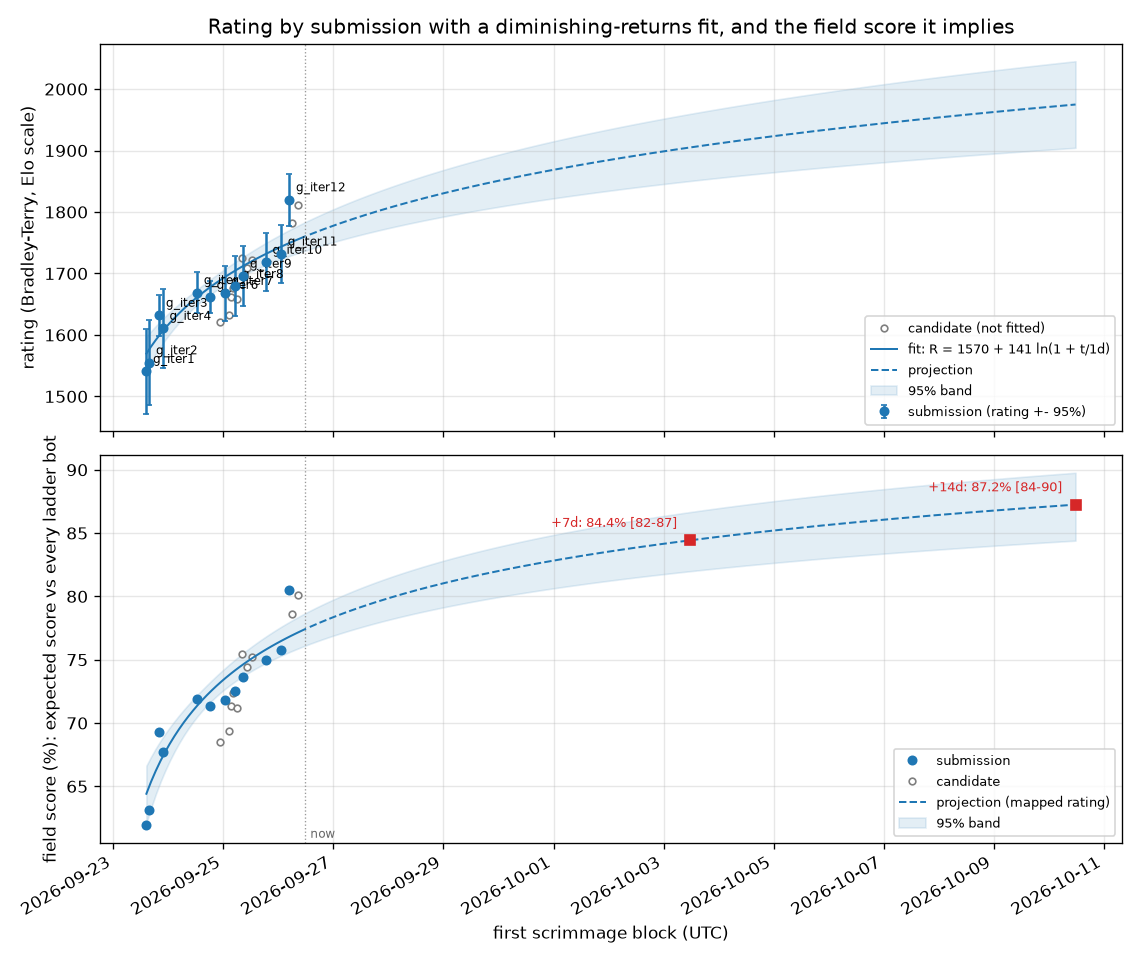
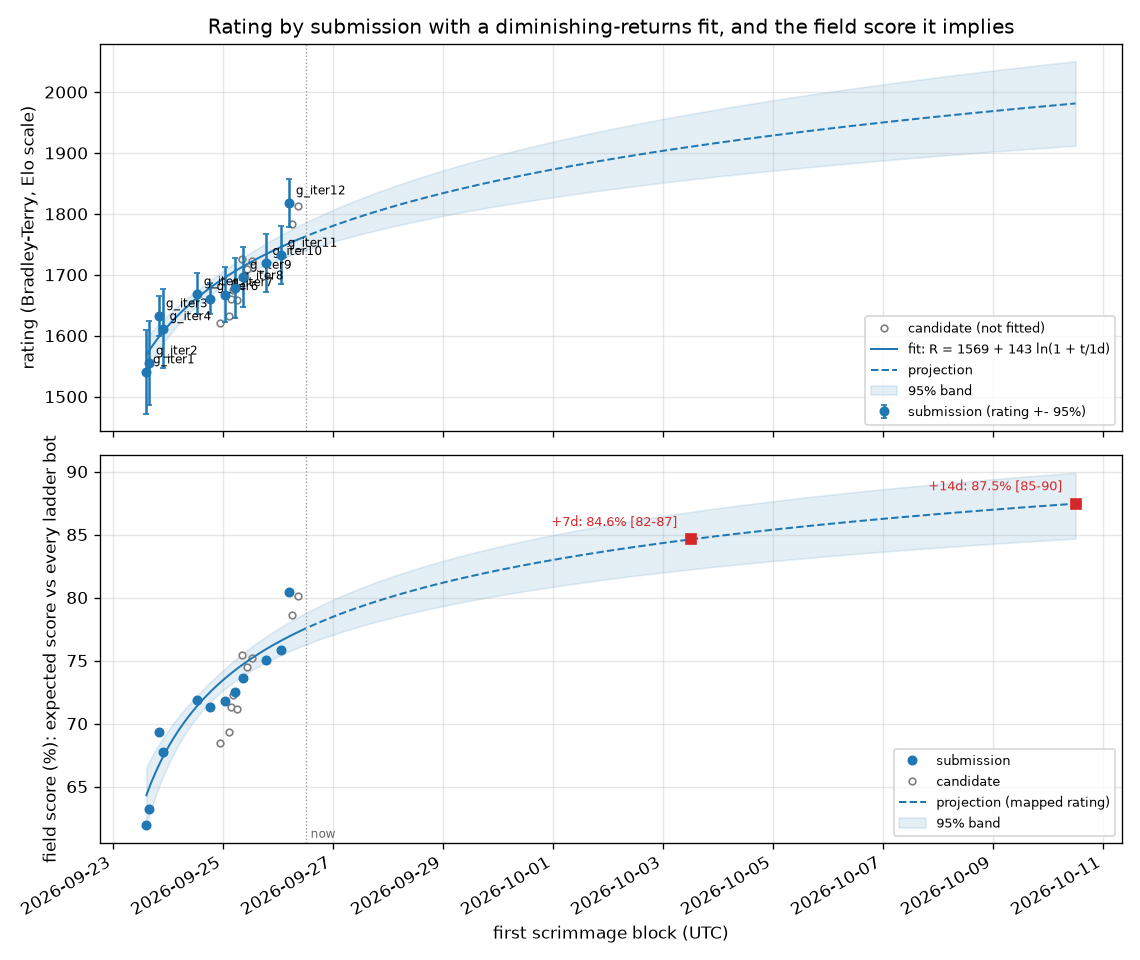
Submission block 20260926-114220-scrim-g_iter12 posted (g_iter12)
Claude-Session: https://claude.ai/code/session_015tNyF5ucwWW1mudpEQTT25

diff --git a/progress/ONSET-merged.md b/progress/ONSET-merged.md
@@ -1,6 +1,6 @@
 # Which metric starts predicting the result first -- every recorded block of g_iter12 merged
 
-199 games, 107 wins. Noise floor about 0.14; a correlation inside that band is not evidence.
+239 games, 127 wins. Noise floor about 0.13; a correlation inside that band is not evidence.
 
 Every metric is oriented so **higher is better for us**, so a positive correlation always means
 "this being better goes with winning". `~avg` is the running mean over all rounds so far rather than
@@ -12,46 +12,46 @@ See `progress/METRICS.md` for how each quantity is computed.
 
 | onset | anti | metric | peak corr | r100 | r200 | r300 | r400 | r600 | r900 |
 |---|---|---|---|---|---|---|---|---|---|
-| r150 | - | worth (us-them) | +0.51 | +0.25 | +0.33 | +0.43 | +0.47 | +0.46 | +0.46 |
-| r250 | - | mines (us-them) | +0.43 | +0.29 | +0.28 | +0.38 | +0.43 | +0.42 | +0.41 |
-| r250 | - | robots (us-them) | +0.58 | +0.15 | +0.19 | +0.38 | +0.47 | +0.50 | +0.56 |
-| r250 | - | worth (us-them) ~avg | +0.53 | +0.24 | +0.29 | +0.38 | +0.44 | +0.48 | +0.48 |
-| r300 | - | mines (us-them) ~avg | +0.46 | +0.29 | +0.26 | +0.32 | +0.38 | +0.43 | +0.44 |
-| r300 | - | spawned (us-them) | +0.60 | +0.14 | +0.13 | +0.35 | +0.44 | +0.49 | +0.56 |
-| r350 | - | robots (us-them) ~avg | +0.59 | +0.14 | +0.14 | +0.27 | +0.37 | +0.49 | +0.57 |
-| r350 | - | units (us-them) | +0.56 | +0.24 | +0.14 | +0.26 | +0.36 | +0.46 | +0.53 |
-| r400 | - | spawned (us-them) ~avg | +0.59 | +0.13 | +0.10 | +0.22 | +0.32 | +0.45 | +0.54 |
-| r450 | - | landscapers (us-them) | +0.56 | +0.09 | +0.06 | +0.10 | +0.23 | +0.46 | +0.56 |
-| r450 | - | units (us-them) ~avg | +0.57 | +0.21 | +0.14 | +0.22 | +0.29 | +0.43 | +0.55 |
-| r500 | - | vaporators (us-them) | +0.40 | +0.14 | +0.15 | +0.25 | +0.29 | +0.34 | +0.35 |
-| r550 | - | vaporators (us-them) ~avg | +0.41 | +0.14 | +0.12 | +0.18 | +0.24 | +0.32 | +0.35 |
-| r600 | - | digs (us-them) | +0.56 | +0.17 | +0.13 | +0.19 | +0.24 | +0.33 | +0.46 |
-| r600 | - | landscapers (us-them) ~avg | +0.59 | +0.10 | +0.03 | +0.06 | +0.14 | +0.34 | +0.54 |
-| r650 | - | dirtDeps (us-them) | +0.54 | +0.11 | +0.07 | +0.14 | +0.20 | +0.29 | +0.44 |
-| r700 | - | digs (us-them) ~avg | +0.50 | +0.16 | +0.11 | +0.15 | +0.20 | +0.27 | +0.39 |
-| r750 | - | moves (us-them) | +0.42 | +0.09 | +0.16 | +0.17 | +0.18 | +0.26 | +0.36 |
-| r800 | - | dirtDeps (us-them) ~avg | +0.48 | +0.10 | +0.04 | +0.09 | +0.15 | +0.23 | +0.35 |
-| r800 | - | miners (us-them) | +0.31 | +0.18 | +0.15 | +0.24 | +0.25 | +0.26 | +0.31 |
-| r900 | - | moves (us-them) ~avg | +0.37 | +0.06 | +0.16 | +0.19 | +0.19 | +0.23 | +0.31 |
-| r900 | - | netguns (us-them) | +0.38 | . | -0.08 | -0.06 | +0.03 | +0.25 | +0.31 |
-| r950 | - | miners (us-them) ~avg | +0.32 | +0.17 | +0.16 | +0.24 | +0.26 | +0.27 | +0.30 |
-| r1050 | - | drones (us-them) | +0.35 | +0.12 | +0.08 | +0.19 | +0.19 | +0.14 | +0.24 |
-| - | r900 | aba (us-them) [inverted] | -0.35 | +0.11 | +0.09 | +0.08 | -0.02 | -0.17 | -0.31 |
-| - | - | aba (us-them) [inverted] ~avg | -0.29 | +0.11 | +0.10 | +0.11 | +0.05 | -0.08 | -0.22 |
-| - | - | cov (us-them) | +0.23 | +0.00 | +0.12 | +0.12 | +0.18 | +0.21 | +0.19 |
-| - | - | cov (us-them) ~avg | +0.21 | -0.03 | +0.07 | +0.07 | +0.12 | +0.16 | +0.19 |
-| - | - | died (us-them) [inverted] | +0.23 | +0.15 | +0.18 | +0.11 | +0.20 | +0.11 | +0.07 |
-| - | - | died (us-them) [inverted] ~avg | +0.22 | +0.12 | +0.20 | +0.19 | +0.20 | +0.16 | +0.15 |
-| - | - | drones (us-them) ~avg | +0.29 | +0.11 | +0.11 | +0.16 | +0.18 | +0.16 | +0.24 |
+| r150 | - | worth (us-them) | +0.48 | +0.24 | +0.33 | +0.40 | +0.44 | +0.45 | +0.45 |
+| r250 | - | mines (us-them) | +0.42 | +0.29 | +0.29 | +0.38 | +0.42 | +0.40 | +0.40 |
+| r250 | - | robots (us-them) | +0.57 | +0.16 | +0.19 | +0.34 | +0.45 | +0.49 | +0.54 |
+| r250 | - | worth (us-them) ~avg | +0.50 | +0.23 | +0.29 | +0.36 | +0.41 | +0.45 | +0.47 |
+| r300 | - | mines (us-them) ~avg | +0.44 | +0.28 | +0.27 | +0.31 | +0.37 | +0.41 | +0.42 |
+| r300 | - | spawned (us-them) | +0.57 | +0.15 | +0.14 | +0.33 | +0.42 | +0.49 | +0.54 |
+| r350 | - | robots (us-them) ~avg | +0.57 | +0.16 | +0.16 | +0.26 | +0.35 | +0.47 | +0.55 |
+| r350 | - | units (us-them) | +0.56 | +0.25 | +0.15 | +0.25 | +0.36 | +0.46 | +0.53 |
+| r400 | - | spawned (us-them) ~avg | +0.56 | +0.15 | +0.12 | +0.22 | +0.31 | +0.44 | +0.53 |
+| r450 | - | landscapers (us-them) | +0.55 | +0.10 | +0.09 | +0.12 | +0.24 | +0.46 | +0.55 |
+| r450 | - | units (us-them) ~avg | +0.56 | +0.23 | +0.16 | +0.22 | +0.28 | +0.42 | +0.54 |
+| r500 | - | vaporators (us-them) | +0.38 | +0.15 | +0.11 | +0.19 | +0.26 | +0.33 | +0.35 |
+| r600 | - | digs (us-them) | +0.54 | +0.13 | +0.13 | +0.19 | +0.24 | +0.33 | +0.46 |
+| r600 | - | landscapers (us-them) ~avg | +0.57 | +0.11 | +0.05 | +0.08 | +0.15 | +0.34 | +0.53 |
+| r650 | - | dirtDeps (us-them) | +0.53 | +0.10 | +0.08 | +0.15 | +0.21 | +0.29 | +0.43 |
+| r650 | - | vaporators (us-them) ~avg | +0.40 | +0.15 | +0.09 | +0.13 | +0.20 | +0.29 | +0.34 |
+| r700 | - | digs (us-them) ~avg | +0.49 | +0.13 | +0.10 | +0.15 | +0.20 | +0.27 | +0.38 |
+| r750 | - | moves (us-them) | +0.41 | +0.14 | +0.15 | +0.15 | +0.17 | +0.26 | +0.36 |
+| r800 | - | dirtDeps (us-them) ~avg | +0.46 | +0.09 | +0.05 | +0.10 | +0.16 | +0.23 | +0.35 |
+| r800 | - | miners (us-them) | +0.32 | +0.17 | +0.12 | +0.22 | +0.24 | +0.27 | +0.32 |
+| r900 | - | miners (us-them) ~avg | +0.33 | +0.18 | +0.15 | +0.22 | +0.25 | +0.27 | +0.30 |
+| r900 | - | moves (us-them) ~avg | +0.36 | +0.11 | +0.17 | +0.17 | +0.18 | +0.22 | +0.30 |
+| r1050 | - | drones (us-them) | +0.34 | +0.13 | +0.09 | +0.17 | +0.20 | +0.14 | +0.25 |
+| r1050 | - | netguns (us-them) | +0.35 | +0.07 | -0.10 | -0.08 | +0.01 | +0.21 | +0.29 |
+| - | r1150 | aba (us-them) [inverted] | -0.31 | +0.11 | +0.05 | +0.04 | +0.00 | -0.13 | -0.26 |
+| - | - | aba (us-them) [inverted] ~avg | -0.23 | +0.11 | +0.07 | +0.06 | +0.05 | -0.05 | -0.17 |
+| - | - | cov (us-them) | +0.25 | +0.06 | +0.10 | +0.11 | +0.19 | +0.24 | +0.21 |
+| - | - | cov (us-them) ~avg | +0.23 | +0.03 | +0.07 | +0.07 | +0.12 | +0.18 | +0.20 |
+| - | - | died (us-them) [inverted] | +0.22 | +0.13 | +0.19 | +0.08 | +0.19 | +0.13 | +0.11 |
+| - | - | died (us-them) [inverted] ~avg | +0.20 | +0.10 | +0.19 | +0.16 | +0.18 | +0.16 | +0.16 |
+| - | - | drones (us-them) ~avg | +0.29 | +0.12 | +0.12 | +0.16 | +0.18 | +0.17 | +0.24 |
 | - | - | drowned (us-them) [inverted] | . | . | . | . | . | . | . |
 | - | - | drowned (us-them) [inverted] ~avg | . | . | . | . | . | . | . |
-| - | - | hqBuried (us-them) [inverted] | +0.27 | +0.27 | +0.23 | +0.05 | -0.06 | -0.04 | -0.06 |
-| - | - | hqBuried (us-them) [inverted] ~avg | +0.27 | +0.27 | +0.18 | -0.01 | -0.06 | -0.05 | -0.06 |
-| - | - | netguns (us-them) ~avg | +0.28 | . | -0.05 | -0.08 | -0.04 | +0.09 | +0.21 |
-| - | - | pickups (us-them) | +0.24 | +0.05 | +0.10 | +0.16 | +0.19 | +0.16 | +0.20 |
-| - | - | pickups (us-them) ~avg | +0.21 | +0.07 | +0.12 | +0.16 | +0.19 | +0.18 | +0.21 |
-| - | - | soup (us-them) | -0.28 | +0.13 | +0.14 | -0.03 | -0.11 | -0.16 | -0.28 |
-| - | - | soup (us-them) ~avg | +0.20 | +0.18 | +0.20 | +0.17 | +0.08 | -0.05 | -0.18 |
+| - | - | hqBuried (us-them) [inverted] | +0.28 | +0.28 | +0.24 | +0.04 | -0.05 | +0.05 | -0.05 |
+| - | - | hqBuried (us-them) [inverted] ~avg | +0.28 | +0.28 | +0.21 | -0.00 | -0.06 | -0.04 | -0.05 |
+| - | - | netguns (us-them) ~avg | +0.25 | +0.07 | -0.06 | -0.10 | -0.06 | +0.05 | +0.18 |
+| - | - | pickups (us-them) | +0.25 | +0.04 | +0.12 | +0.16 | +0.20 | +0.17 | +0.22 |
+| - | - | pickups (us-them) ~avg | +0.23 | +0.05 | +0.14 | +0.16 | +0.20 | +0.19 | +0.23 |
+| - | - | soup (us-them) | -0.26 | +0.07 | +0.14 | +0.04 | -0.12 | -0.14 | -0.26 |
+| - | - | soup (us-them) ~avg | +0.18 | +0.12 | +0.18 | +0.16 | +0.08 | -0.04 | -0.16 |
 
 **Reading it.** Earliest onset is the first place to look: temporal precedence is the one causal hint a
 correlation can honestly give. Late-onset metrics are usually the scoreboard rather than the cause -- by then

diff --git a/BENCHMARK.md b/BENCHMARK.md
@@ -62,7 +62,7 @@ build with at least 200 recorded games: a candidate's short ladder arm never re-
 | `EmaPajic.Mark3` | EmaPajic_Battlecode-2020 (c060a22) | - | - | untested |  |
 | `EmaPajic.Mark4` | EmaPajic_Battlecode-2020 (c060a22) | - | - | untested |  |
 | `EmaPajic.Mark5` | EmaPajic_Battlecode-2020 (c060a22) | - | - | untested |  |
-| `EmaPajic.Qualifications` | EmaPajic_Battlecode-2020 (c060a22) | 53 | 36 | peer | 20 0 21 0 50 0 17 38 8 25 10 17 20 33 33 30 20 53 42 33 |
+| `EmaPajic.Qualifications` | EmaPajic_Battlecode-2020 (c060a22) | 50 | 42 | peer | 20 0 21 0 50 0 17 38 8 25 10 17 20 33 33 30 20 50 42 33 |
 | `EmaPajic.SeedingBot` | EmaPajic_Battlecode-2020 (c060a22) | - | - | untested |  |
 | `GabrielDWu.basicbot` | GabrielDWu_blezers-battlecode2020 (c0283f8) | - | - | untested |  |
 | `GabrielDWu.blezerbot` | GabrielDWu_blezers-battlecode2020 (c0283f8) | - | - | untested |  |
@@ -80,7 +80,7 @@ build with at least 200 recorded games: a candidate's short ladder arm never re-
 | `IvanGeffner.dronecrunchplus` | IvanGeffner_battlecode2020 (bc7dbca) | - | - | untested |  |
 | `IvanGeffner.ecoplayer` | IvanGeffner_battlecode2020 (bc7dbca) | - | - | untested |  |
 | `IvanGeffner.ecoplus` | IvanGeffner_battlecode2020 (bc7dbca) | - | - | untested |  |
-| `IvanGeffner.finalbota` | IvanGeffner_battlecode2020 (bc7dbca) | 17 | 6 | locked | 0 8 12 18 0 0 17 42 |
+| `IvanGeffner.finalbota` | IvanGeffner_battlecode2020 (bc7dbca) | 17 | 12 | locked | 0 8 12 18 0 0 17 42 |
 | `IvanGeffner.finalbotb` | IvanGeffner_battlecode2020 (bc7dbca) | - | - | untested |  |
 | `IvanGeffner.finalbotc` | IvanGeffner_battlecode2020 (bc7dbca) | - | - | untested |  |
 | `IvanGeffner.landscaperop` | IvanGeffner_battlecode2020 (bc7dbca) | - | - | untested |  |
@@ -171,11 +171,11 @@ build with at least 200 recorded games: a candidate's short ladder arm never re-
 | `benzyx.espada` | benzyx_bc20-waterloo (05df2e7) | - | - | untested |  |
 | `benzyx.firstplayer` | benzyx_bc20-waterloo (05df2e7) | - | - | untested |  |
 | `benzyx.kurobot` | benzyx_bc20-waterloo (05df2e7) | - | - | untested |  |
-| `benzyx.seeding` | benzyx_bc20-waterloo (05df2e7) | 78 | 36 | peer | 25 17 50 40 25 45 41 33 36 33 33 58 50 25 58 53 50 50 63 63 78 83 58 |
+| `benzyx.seeding` | benzyx_bc20-waterloo (05df2e7) | 79 | 42 | peer | 25 17 50 40 25 45 41 33 36 33 33 58 50 25 58 53 50 50 63 63 79 83 58 |
 | `benzyx.tortuga` | benzyx_bc20-waterloo (05df2e7) | - | - | untested |  |
 | `charboltron.master_player` | charboltron_pdx_battlecode_2020_team_11 (f78f1e3) | - | - | untested |  |
 | `charboltron.team11newbot` | charboltron_pdx_battlecode_2020_team_11 (f78f1e3) | 100 | 2 | peer(>90 once) | 100 100 |
-| `cormackikkert.whyPermutator` | cormackikkert_battlecode2020 (4d230c4) | 72 | 36 | peer | 25 17 38 40 25 42 45 25 28 25 42 33 47 58 42 50 38 75 60 50 72 67 75 |
+| `cormackikkert.whyPermutator` | cormackikkert_battlecode2020 (4d230c4) | 71 | 42 | peer | 25 17 38 40 25 42 45 25 28 25 42 33 47 58 42 50 38 75 60 50 71 67 75 |
 | `cormackikkert.whyPermutatorOld` | cormackikkert_battlecode2020 (4d230c4) | - | - | untested |  |
 | `cosimogonnelli.Team3player` | cosimogonnelli_CS454-554-SE (d7dc657) | 100 | 2 | peer(>90 once) | 80 100 |
 | `cs454-w20-team3.oldbot` | cs454-w20-team3_team3-bot (502c334) | - | - | untested |  |
@@ -203,7 +203,7 @@ build with at least 200 recorded games: a candidate's short ladder arm never re-
 | `kylittle.deliriumv1` | kylittle_DeliriumBattlecode (17a94dd) | - | - | untested |  |
 | `kylittle.qualsbot` | kylittle_DeliriumBattlecode (17a94dd) | - | - | untested |  |
 | `kylittle.qualsbot2` | kylittle_DeliriumBattlecode (17a94dd) | 100 | 2 | peer(>90 once) | 100 100 |
-| `laurenschneider.pdx_team_one` | laurenschneider_battlecode20-PDXTeamOne (2965376) | 75 | 36 | peer | 0 50 39 14 0 47 38 0 50 50 50 42 47 42 50 47 50 42 50 47 75 50 67 |
+| `laurenschneider.pdx_team_one` | laurenschneider_battlecode20-PDXTeamOne (2965376) | 79 | 42 | peer | 0 50 39 14 0 47 38 0 50 50 50 42 47 42 50 47 50 42 50 47 79 50 67 |
 | `lfchain.bigBudsBot` | lfchain_Battlecode2020 (b026153) | 100 | 2 | peer(>90 once) | 100 100 |
 | `lfchain.fBot` | lfchain_Battlecode2020 (b026153) | - | - | untested |  |
 | `lfchain.jBot` | lfchain_Battlecode2020 (b026153) | - | - | untested |  |
@@ -246,7 +246,7 @@ build with at least 200 recorded games: a candidate's short ladder arm never re-
 | `mvpatel2000.oldhades` | mvpatel2000_Battlecode2020 (554943e) | - | - | untested |  |
 | `mvpatel2000.poseidon` | mvpatel2000_Battlecode2020 (554943e) | - | - | untested |  |
 | `mvpatel2000.quail` | mvpatel2000_Battlecode2020 (554943e) | - | - | untested |  |
-| `mvpatel2000.qual` | mvpatel2000_Battlecode2020 (554943e) | 25 | 36 | target | 0 8 24 13 67 12 0 12 20 46 8 23 30 25 42 33 |
+| `mvpatel2000.qual` | mvpatel2000_Battlecode2020 (554943e) | 26 | 42 | target | 0 8 24 13 67 12 0 12 20 46 8 23 30 26 42 33 |
 | `mvpatel2000.qualAttacc` | mvpatel2000_Battlecode2020 (554943e) | - | - | untested |  |
 | `mvpatel2000.qualNoAtacc` | mvpatel2000_Battlecode2020 (554943e) | - | - | untested |  |
 | `mvpatel2000.seeding` | mvpatel2000_Battlecode2020 (554943e) | - | - | untested |  |
@@ -280,7 +280,7 @@ build with at least 200 recorded games: a candidate's short ladder arm never re-
 | `poortho.rush` | poortho_battlecode-2020 (ebbd61e) | - | - | untested |  |
 | `poortho.rush_bot` | poortho_battlecode-2020 (ebbd61e) | - | - | untested |  |
 | `poortho.stable_miner1` | poortho_battlecode-2020 (ebbd61e) | - | - | untested |  |
-| `poortho.stable_seeding_bot` | poortho_battlecode-2020 (ebbd61e) | 31 | 36 | target | 0 17 27 31 0 30 31 50 39 33 25 33 33 17 42 37 33 17 27 30 31 58 25 |
+| `poortho.stable_seeding_bot` | poortho_battlecode-2020 (ebbd61e) | 31 | 42 | target | 0 17 27 31 0 30 31 50 39 33 25 33 33 17 42 37 33 17 27 30 31 58 25 |
 | `ps789.dennisTestPlayer` | ps789_AZBattlecode (f1d54ab) | - | - | untested |  |
 | `ps789.phillipTestPlayer` | ps789_AZBattlecode (f1d54ab) | - | - | untested |  |
 | `ronniesong0809.finalbota` | ronniesong0809_battlecode20-RADS (1cee065) | 7 | 30 | locked | 0 18 15 7 0 0 7 |
@@ -326,7 +326,7 @@ build with at least 200 recorded games: a candidate's short ladder arm never re-
 | `willBoyd8.droideka` | willBoyd8_BattleDroid (4b1d4ad) | - | - | untested |  |
 | `willBoyd8.empire` | willBoyd8_BattleDroid (4b1d4ad) | - | - | untested |  |
 | `willBoyd8.mouse` | willBoyd8_BattleDroid (4b1d4ad) | - | - | untested |  |
-| `winkelmantanner.tannerplayer` | winkelmantanner_battlecode2020_the-levee-builders (7f49f11) | 39 | 36 | target | 0 25 15 23 0 36 12 8 23 17 25 17 27 39 8 50 |
+| `winkelmantanner.tannerplayer` | winkelmantanner_battlecode2020_the-levee-builders (7f49f11) | 33 | 42 | target | 0 25 15 23 0 36 12 8 23 17 25 17 27 33 8 50 |
 | `wpine215.stardustv1` | wpine215_battlecode (d570d57) | - | - | untested |  |
 | `wpine215.stardustv2` | wpine215_battlecode (d570d57) | 90 | 30 | peer | 0 30 50 65 100 70 77 58 78 83 67 75 87 100 83 67 100 73 90 |
 | `yaonam.Robot_1` | yaonam_battlecode2020 (bb363f5) | 83 | 12 | peer | 62 100 83 100 |

diff --git a/progress/ONSET.md b/progress/ONSET.md
@@ -1,6 +1,6 @@
 # Which metric starts predicting the result first
 
-2 games, 2 wins. Noise floor about 1.41; a correlation inside that band is not evidence.
+40 games, 20 wins. Noise floor about 0.32; a correlation inside that band is not evidence.
 
 Every metric is oriented so **higher is better for us**, so a positive correlation always means
 "this being better goes with winning". `~avg` is the running mean over all rounds so far rather than
@@ -12,46 +12,46 @@ See `progress/METRICS.md` for how each quantity is computed.
 
 | onset | anti | metric | peak corr | r100 | r200 | r300 | r400 | r600 | r900 |
 |---|---|---|---|---|---|---|---|---|---|
-| - | - | aba (us-them) [inverted] | . | . | . | . | . | . | . |
-| - | - | aba (us-them) [inverted] ~avg | . | . | . | . | . | . | . |
-| - | - | cov (us-them) | . | . | . | . | . | . | . |
-| - | - | cov (us-them) ~avg | . | . | . | . | . | . | . |
-| - | - | died (us-them) [inverted] | . | . | . | . | . | . | . |
-| - | - | died (us-them) [inverted] ~avg | . | . | . | . | . | . | . |
-| - | - | digs (us-them) | . | . | . | . | . | . | . |
-| - | - | digs (us-them) ~avg | . | . | . | . | . | . | . |
-| - | - | dirtDeps (us-them) | . | . | . | . | . | . | . |
-| - | - | dirtDeps (us-them) ~avg | . | . | . | . | . | . | . |
-| - | - | drones (us-them) | . | . | . | . | . | . | . |
-| - | - | drones (us-them) ~avg | . | . | . | . | . | . | . |
+| r50 | - | units (us-them) | +0.58 | +0.31 | +0.22 | +0.23 | +0.36 | +0.53 | +0.50 |
+| r50 | - | units (us-them) ~avg | +0.52 | +0.35 | +0.21 | +0.22 | +0.28 | +0.40 | +0.52 |
+| r100 | - | hqBuried (us-them) [inverted] | +0.39 | +0.32 | +0.31 | -0.04 | . | +0.26 | . |
+| r100 | - | hqBuried (us-them) [inverted] ~avg | +0.38 | +0.32 | +0.31 | -0.01 | -0.04 | +0.04 | -0.03 |
+| r100 | - | moves (us-them) ~avg | +0.39 | +0.39 | +0.24 | +0.11 | +0.14 | +0.21 | +0.28 |
+| r200 | - | mines (us-them) | +0.34 | +0.25 | +0.33 | +0.33 | +0.34 | +0.33 | +0.34 |
+| r200 | - | worth (us-them) | +0.41 | +0.19 | +0.34 | +0.25 | +0.30 | +0.40 | +0.40 |
+| r350 | - | landscapers (us-them) | +0.52 | +0.12 | +0.24 | +0.19 | +0.31 | +0.48 | +0.46 |
+| r350 | - | robots (us-them) | +0.52 | +0.23 | +0.22 | +0.21 | +0.37 | +0.49 | +0.50 |
+| r350 | - | spawned (us-them) | +0.47 | +0.23 | +0.19 | +0.25 | +0.37 | +0.46 | +0.44 |
+| r400 | - | drones (us-them) | +0.38 | +0.18 | +0.18 | +0.17 | +0.31 | +0.30 | +0.33 |
+| r400 | - | mines (us-them) ~avg | +0.33 | +0.24 | +0.29 | +0.26 | +0.30 | +0.33 | +0.32 |
+| r450 | - | cov (us-them) | +0.44 | +0.30 | +0.02 | +0.10 | +0.27 | +0.43 | +0.38 |
+| r450 | - | robots (us-them) ~avg | +0.48 | +0.26 | +0.22 | +0.21 | +0.29 | +0.41 | +0.48 |
+| r450 | - | spawned (us-them) ~avg | +0.44 | +0.26 | +0.20 | +0.21 | +0.28 | +0.38 | +0.44 |
+| r500 | - | worth (us-them) ~avg | +0.38 | +0.18 | +0.29 | +0.23 | +0.28 | +0.35 | +0.38 |
+| r550 | - | digs (us-them) | +0.48 | -0.06 | +0.13 | +0.23 | +0.28 | +0.33 | +0.45 |
+| r550 | - | landscapers (us-them) ~avg | +0.47 | +0.12 | +0.13 | +0.15 | +0.21 | +0.35 | +0.47 |
+| r550 | - | miners (us-them) | +0.40 | +0.15 | +0.01 | +0.08 | +0.17 | +0.31 | +0.40 |
+| r600 | - | cov (us-them) ~avg | +0.38 | +0.26 | +0.10 | +0.07 | +0.16 | +0.30 | +0.33 |
+| r650 | - | dirtDeps (us-them) | +0.46 | +0.05 | +0.11 | +0.23 | +0.27 | +0.30 | +0.42 |
+| r650 | - | drones (us-them) ~avg | +0.35 | +0.18 | +0.23 | +0.21 | +0.26 | +0.30 | +0.34 |
+| r650 | - | pickups (us-them) | +0.40 | +0.00 | +0.21 | +0.18 | +0.23 | +0.30 | +0.40 |
+| r700 | - | digs (us-them) ~avg | +0.41 | -0.06 | +0.10 | +0.17 | +0.22 | +0.28 | +0.37 |
+| r750 | - | died (us-them) [inverted] | +0.36 | +0.00 | +0.25 | -0.02 | +0.16 | +0.28 | +0.36 |
+| r750 | - | dirtDeps (us-them) ~avg | +0.38 | +0.05 | +0.10 | +0.19 | +0.22 | +0.27 | +0.35 |
+| r750 | - | pickups (us-them) ~avg | +0.38 | +0.00 | +0.26 | +0.21 | +0.26 | +0.27 | +0.36 |
+| r800 | - | moves (us-them) | +0.38 | +0.38 | +0.13 | +0.06 | +0.15 | +0.26 | +0.35 |
+| r800 | - | vaporators (us-them) | +0.32 | +0.17 | -0.08 | -0.08 | +0.09 | +0.28 | +0.31 |
+| r850 | - | miners (us-them) ~avg | +0.35 | +0.23 | +0.13 | +0.14 | +0.19 | +0.25 | +0.33 |
+| r1000 | - | vaporators (us-them) ~avg | +0.32 | +0.17 | -0.06 | -0.12 | -0.01 | +0.17 | +0.26 |
+| - | - | aba (us-them) [inverted] | -0.20 | +0.11 | -0.16 | -0.13 | +0.17 | +0.11 | +0.02 |
+| - | - | aba (us-them) [inverted] ~avg | -0.19 | +0.12 | -0.08 | -0.16 | +0.06 | +0.12 | +0.10 |
+| - | - | died (us-them) [inverted] ~avg | +0.29 | +0.00 | +0.20 | +0.05 | +0.11 | +0.20 | +0.27 |
 | - | - | drowned (us-them) [inverted] | . | . | . | . | . | . | . |
 | - | - | drowned (us-them) [inverted] ~avg | . | . | . | . | . | . | . |
-| - | - | hqBuried (us-them) [inverted] | . | . | . | . | . | . | . |
-| - | - | hqBuried (us-them) [inverted] ~avg | . | . | . | . | . | . | . |
-| - | - | landscapers (us-them) | . | . | . | . | . | . | . |
-| - | - | landscapers (us-them) ~avg | . | . | . | . | . | . | . |
-| - | - | miners (us-them) | . | . | . | . | . | . | . |
-| - | - | miners (us-them) ~avg | . | . | . | . | . | . | . |
-| - | - | mines (us-them) | . | . | . | . | . | . | . |
-| - | - | mines (us-them) ~avg | . | . | . | . | . | . | . |
-| - | - | moves (us-them) | . | . | . | . | . | . | . |
-| - | - | moves (us-them) ~avg | . | . | . | . | . | . | . |
-| - | - | netguns (us-them) | . | . | . | . | . | . | . |
-| - | - | netguns (us-them) ~avg | . | . | . | . | . | . | . |
-| - | - | pickups (us-them) | . | . | . | . | . | . | . |
-| - | - | pickups (us-them) ~avg | . | . | . | . | . | . | . |
-| - | - | robots (us-them) | . | . | . | . | . | . | . |
-| - | - | robots (us-them) ~avg | . | . | . | . | . | . | . |
-| - | - | soup (us-them) | . | . | . | . | . | . | . |
-| - | - | soup (us-them) ~avg | . | . | . | . | . | . | . |
-| - | - | spawned (us-them) | . | . | . | . | . | . | . |
-| - | - | spawned (us-them) ~avg | . | . | . | . | . | . | . |
-| - | - | units (us-them) | . | . | . | . | . | . | . |
-| - | - | units (us-them) ~avg | . | . | . | . | . | . | . |
-| - | - | vaporators (us-them) | . | . | . | . | . | . | . |
-| - | - | vaporators (us-them) ~avg | . | . | . | . | . | . | . |
-| - | - | worth (us-them) | . | . | . | . | . | . | . |
-| - | - | worth (us-them) ~avg | . | . | . | . | . | . | . |
+| - | - | netguns (us-them) | -0.33 | +0.16 | -0.22 | -0.21 | -0.10 | -0.04 | +0.17 |
+| - | - | netguns (us-them) ~avg | -0.23 | +0.16 | -0.13 | -0.22 | -0.20 | -0.19 | +0.00 |
+| - | - | soup (us-them) | +0.23 | -0.18 | +0.14 | +0.19 | -0.22 | -0.04 | -0.17 |
+| - | - | soup (us-them) ~avg | -0.15 | -0.15 | +0.10 | +0.12 | +0.08 | +0.01 | -0.06 |
 
 **Reading it.** Earliest onset is the first place to look: temporal precedence is the one causal hint a
 correlation can honestly give. Late-onset metrics are usually the scoreboard rather than the cause -- by then

diff --git a/progress/ELO.md b/progress/ELO.md
@@ -1,73 +1,73 @@
 # Ladder
 
-6041 scrimmages (ours only), 5517 distinct (a repeated pairing with the same seed replays the same game and counts once), rated by a batch Bradley-Terry fit on the Elo scale (`tools/elolib.py`); each of our builds is its own player. 65 of 65 ladder bots met.
+6089 scrimmages (ours only), 5565 distinct (a repeated pairing with the same seed replays the same game and counts once), rated by a batch Bradley-Terry fit on the Elo scale (`tools/elolib.py`); each of our builds is its own player. 65 of 65 ladder bots met.
 
 Our builds (rating +- 95%; field score = expected score against every ladder bot, one game each):
 
 | build | rating | rank | games | record | field score |
 |---|---|---|---|---|---|
-| g_iter12 | 1820 +- 42 | 13 of 88 | 288 | 137-151 | 80.5% |
-| cand69 | 1811 +- 72 | 14 of 88 | 96 | 46-50 | 80.1% |
+| g_iter12 | 1818 +- 39 | 13 of 88 | 336 | 159-177 | 80.4% |
+| cand69 | 1813 +- 72 | 14 of 88 | 96 | 46-50 | 80.2% |
 | cand65 | 1783 +- 73 | 15 of 88 | 96 | 42-54 | 78.6% |
 | g_iter11 | 1732 +- 47 | 16 of 88 | 240 | 107-133 | 75.8% |
-| cand43b | 1726 +- 79 | 17 of 88 | 96 | 64-32 | 75.5% |
-| cand49b | 1722 +- 75 | 19 of 88 | 96 | 42-54 | 75.2% |
-| g_iter10 | 1718 +- 48 | 20 of 88 | 240 | 103-137 | 75.0% |
-| cand47d | 1709 +- 54 | 22 of 88 | 192 | 73-119 | 74.5% |
+| cand43b | 1725 +- 79 | 17 of 88 | 96 | 64-32 | 75.4% |
+| cand49b | 1723 +- 75 | 18 of 88 | 96 | 42-54 | 75.2% |
+| g_iter10 | 1719 +- 48 | 20 of 88 | 240 | 103-137 | 75.0% |
+| cand47d | 1710 +- 54 | 22 of 88 | 192 | 73-119 | 74.5% |
 | g_iter9 | 1696 +- 49 | 23 of 88 | 240 | 78-162 | 73.6% |
 | g_iter8 | 1679 +- 49 | 25 of 88 | 240 | 108-132 | 72.5% |
 | cand41b | 1676 +- 76 | 26 of 88 | 96 | 51-45 | 72.3% |
 | g_iter5 | 1669 +- 34 | 27 of 88 | 618 | 329-289 | 71.9% |
-| g_iter7 | 1668 +- 44 | 28 of 88 | 288 | 135-153 | 71.8% |
-| cand40c | 1661 +- 77 | 29 of 88 | 96 | 57-39 | 71.4% |
-| g_iter6 | 1661 +- 26 | 30 of 88 | 886 | 450-436 | 71.4% |
-| cand42c | 1659 +- 76 | 31 of 88 | 96 | 49-47 | 71.2% |
+| g_iter7 | 1668 +- 45 | 28 of 88 | 288 | 135-153 | 71.8% |
+| g_iter6 | 1661 +- 26 | 29 of 88 | 886 | 450-436 | 71.3% |
+| cand40c | 1661 +- 77 | 30 of 88 | 96 | 57-39 | 71.3% |
+| cand42c | 1658 +- 76 | 31 of 88 | 96 | 49-47 | 71.1% |
 | iter24 | 1639 +- 130 | 32 of 88 | 46 | 11-35 | 69.8% |
-| cand37 | 1633 +- 76 | 33 of 88 | 96 | 46-50 | 69.3% |
-| g_iter3 | 1632 +- 33 | 34 of 88 | 796 | 167-629 | 69.3% |
+| g_iter3 | 1633 +- 33 | 33 of 88 | 796 | 167-629 | 69.3% |
+| cand37 | 1632 +- 76 | 34 of 88 | 96 | 46-50 | 69.3% |
 | cand31 | 1621 +- 76 | 35 of 88 | 96 | 52-44 | 68.5% |
-| g_iter4 | 1611 +- 64 | 36 of 88 | 217 | 43-174 | 67.7% |
+| g_iter4 | 1612 +- 64 | 36 of 88 | 217 | 43-174 | 67.8% |
 | g_iter2 | 1555 +- 69 | 37 of 88 | 192 | 44-148 | 63.2% |
 | g_iter1 | 1541 +- 69 | 38 of 88 | 170 | 95-75 | 61.9% |
 
 | rank | player | rating | +- 95% | games | W-L |
 |---|---|---|---|---|---|
-| 1 | awesomelemonade.citricsky | 2235 | 200 | 103 | 101-2 |
+| 1 | awesomelemonade.citricsky | 2236 | 200 | 103 | 101-2 |
 | 2 | uvafan.v14_final_bot | 2226 | 200 | 98 | 96-2 |
 | 3 | AngusRitossa.newbot | 2167 | 174 | 95 | 92-3 |
-| 4 | ronniesong0809.finalbota | 2051 | 98 | 127 | 114-13 |
+| 4 | ronniesong0809.finalbota | 2050 | 98 | 127 | 114-13 |
 | 5 | battlecode20-team4.finalbota | 1989 | 65 | 238 | 207-31 |
 | 6 | StoneT2000.FinalChowBotStable | 1979 | 211 | 21 | 19-2 |
 | 7 | rzhan11.quals_bot | 1976 | 115 | 86 | 77-9 |
-| 8 | IvanGeffner.finalbota | 1962 | 88 | 119 | 102-17 |
-| 9 | winkelmantanner.tannerplayer | 1929 | 46 | 338 | 266-72 |
-| 10 | mvpatel2000.qual | 1918 | 46 | 325 | 252-73 |
-| 11 | EmaPajic.Qualifications | 1889 | 40 | 389 | 292-97 |
-| 12 | poortho.stable_seeding_bot | 1825 | 31 | 557 | 384-173 |
-| 13 | **us:g_iter12** | 1820 | 42 | 288 | 137-151 |
-| 14 | **us:cand69** | 1811 | 72 | 96 | 46-50 |
+| 8 | IvanGeffner.finalbota | 1972 | 86 | 125 | 107-18 |
+| 9 | winkelmantanner.tannerplayer | 1935 | 45 | 344 | 272-72 |
+| 10 | mvpatel2000.qual | 1919 | 45 | 331 | 256-75 |
+| 11 | EmaPajic.Qualifications | 1890 | 40 | 395 | 296-99 |
+| 12 | poortho.stable_seeding_bot | 1827 | 31 | 563 | 388-175 |
+| 13 | **us:g_iter12** | 1818 | 39 | 336 | 159-177 |
+| 14 | **us:cand69** | 1813 | 72 | 96 | 46-50 |
 | 15 | **us:cand65** | 1783 | 73 | 96 | 42-54 |
 | 16 | **us:g_iter11** | 1732 | 47 | 240 | 107-133 |
-| 17 | **us:cand43b** | 1726 | 79 | 96 | 64-32 |
-| 18 | laurenschneider.pdx_team_one | 1725 | 29 | 572 | 319-253 |
-| 19 | **us:cand49b** | 1722 | 75 | 96 | 42-54 |
-| 20 | **us:g_iter10** | 1718 | 48 | 240 | 103-137 |
-| 21 | cormackikkert.whyPermutator | 1717 | 29 | 565 | 309-256 |
-| 22 | **us:cand47d** | 1709 | 54 | 192 | 73-119 |
+| 17 | **us:cand43b** | 1725 | 79 | 96 | 64-32 |
+| 18 | **us:cand49b** | 1723 | 75 | 96 | 42-54 |
+| 19 | laurenschneider.pdx_team_one | 1722 | 29 | 578 | 319-259 |
+| 20 | **us:g_iter10** | 1719 | 48 | 240 | 103-137 |
+| 21 | cormackikkert.whyPermutator | 1717 | 29 | 571 | 311-260 |
+| 22 | **us:cand47d** | 1710 | 54 | 192 | 73-119 |
 | 23 | **us:g_iter9** | 1696 | 49 | 240 | 78-162 |
-| 24 | benzyx.seeding | 1693 | 29 | 568 | 292-276 |
+| 24 | benzyx.seeding | 1692 | 29 | 574 | 293-281 |
 | 25 | **us:g_iter8** | 1679 | 49 | 240 | 108-132 |
 | 26 | **us:cand41b** | 1676 | 76 | 96 | 51-45 |
 | 27 | **us:g_iter5** | 1669 | 34 | 618 | 329-289 |
-| 28 | **us:g_iter7** | 1668 | 44 | 288 | 135-153 |
-| 29 | **us:cand40c** | 1661 | 77 | 96 | 57-39 |
-| 30 | **us:g_iter6** | 1661 | 26 | 886 | 450-436 |
-| 31 | **us:cand42c** | 1659 | 76 | 96 | 49-47 |
+| 28 | **us:g_iter7** | 1668 | 45 | 288 | 135-153 |
+| 29 | **us:g_iter6** | 1661 | 26 | 886 | 450-436 |
+| 30 | **us:cand40c** | 1661 | 77 | 96 | 57-39 |
+| 31 | **us:cand42c** | 1658 | 76 | 96 | 49-47 |
 | 32 | **us:iter24** | 1639 | 130 | 46 | 11-35 |
-| 33 | **us:cand37** | 1633 | 76 | 96 | 46-50 |
-| 34 | **us:g_iter3** | 1632 | 33 | 796 | 167-629 |
+| 33 | **us:g_iter3** | 1633 | 33 | 796 | 167-629 |
+| 34 | **us:cand37** | 1632 | 76 | 96 | 46-50 |
 | 35 | **us:cand31** | 1621 | 76 | 96 | 52-44 |
-| 36 | **us:g_iter4** | 1611 | 64 | 217 | 43-174 |
+| 36 | **us:g_iter4** | 1612 | 64 | 217 | 43-174 |
 | 37 | **us:g_iter2** | 1555 | 69 | 192 | 44-148 |
 | 38 | **us:g_iter1** | 1541 | 69 | 170 | 95-75 |
 | 39 | wpine215.stardustv2 | 1487 | 36 | 461 | 122-339 |
